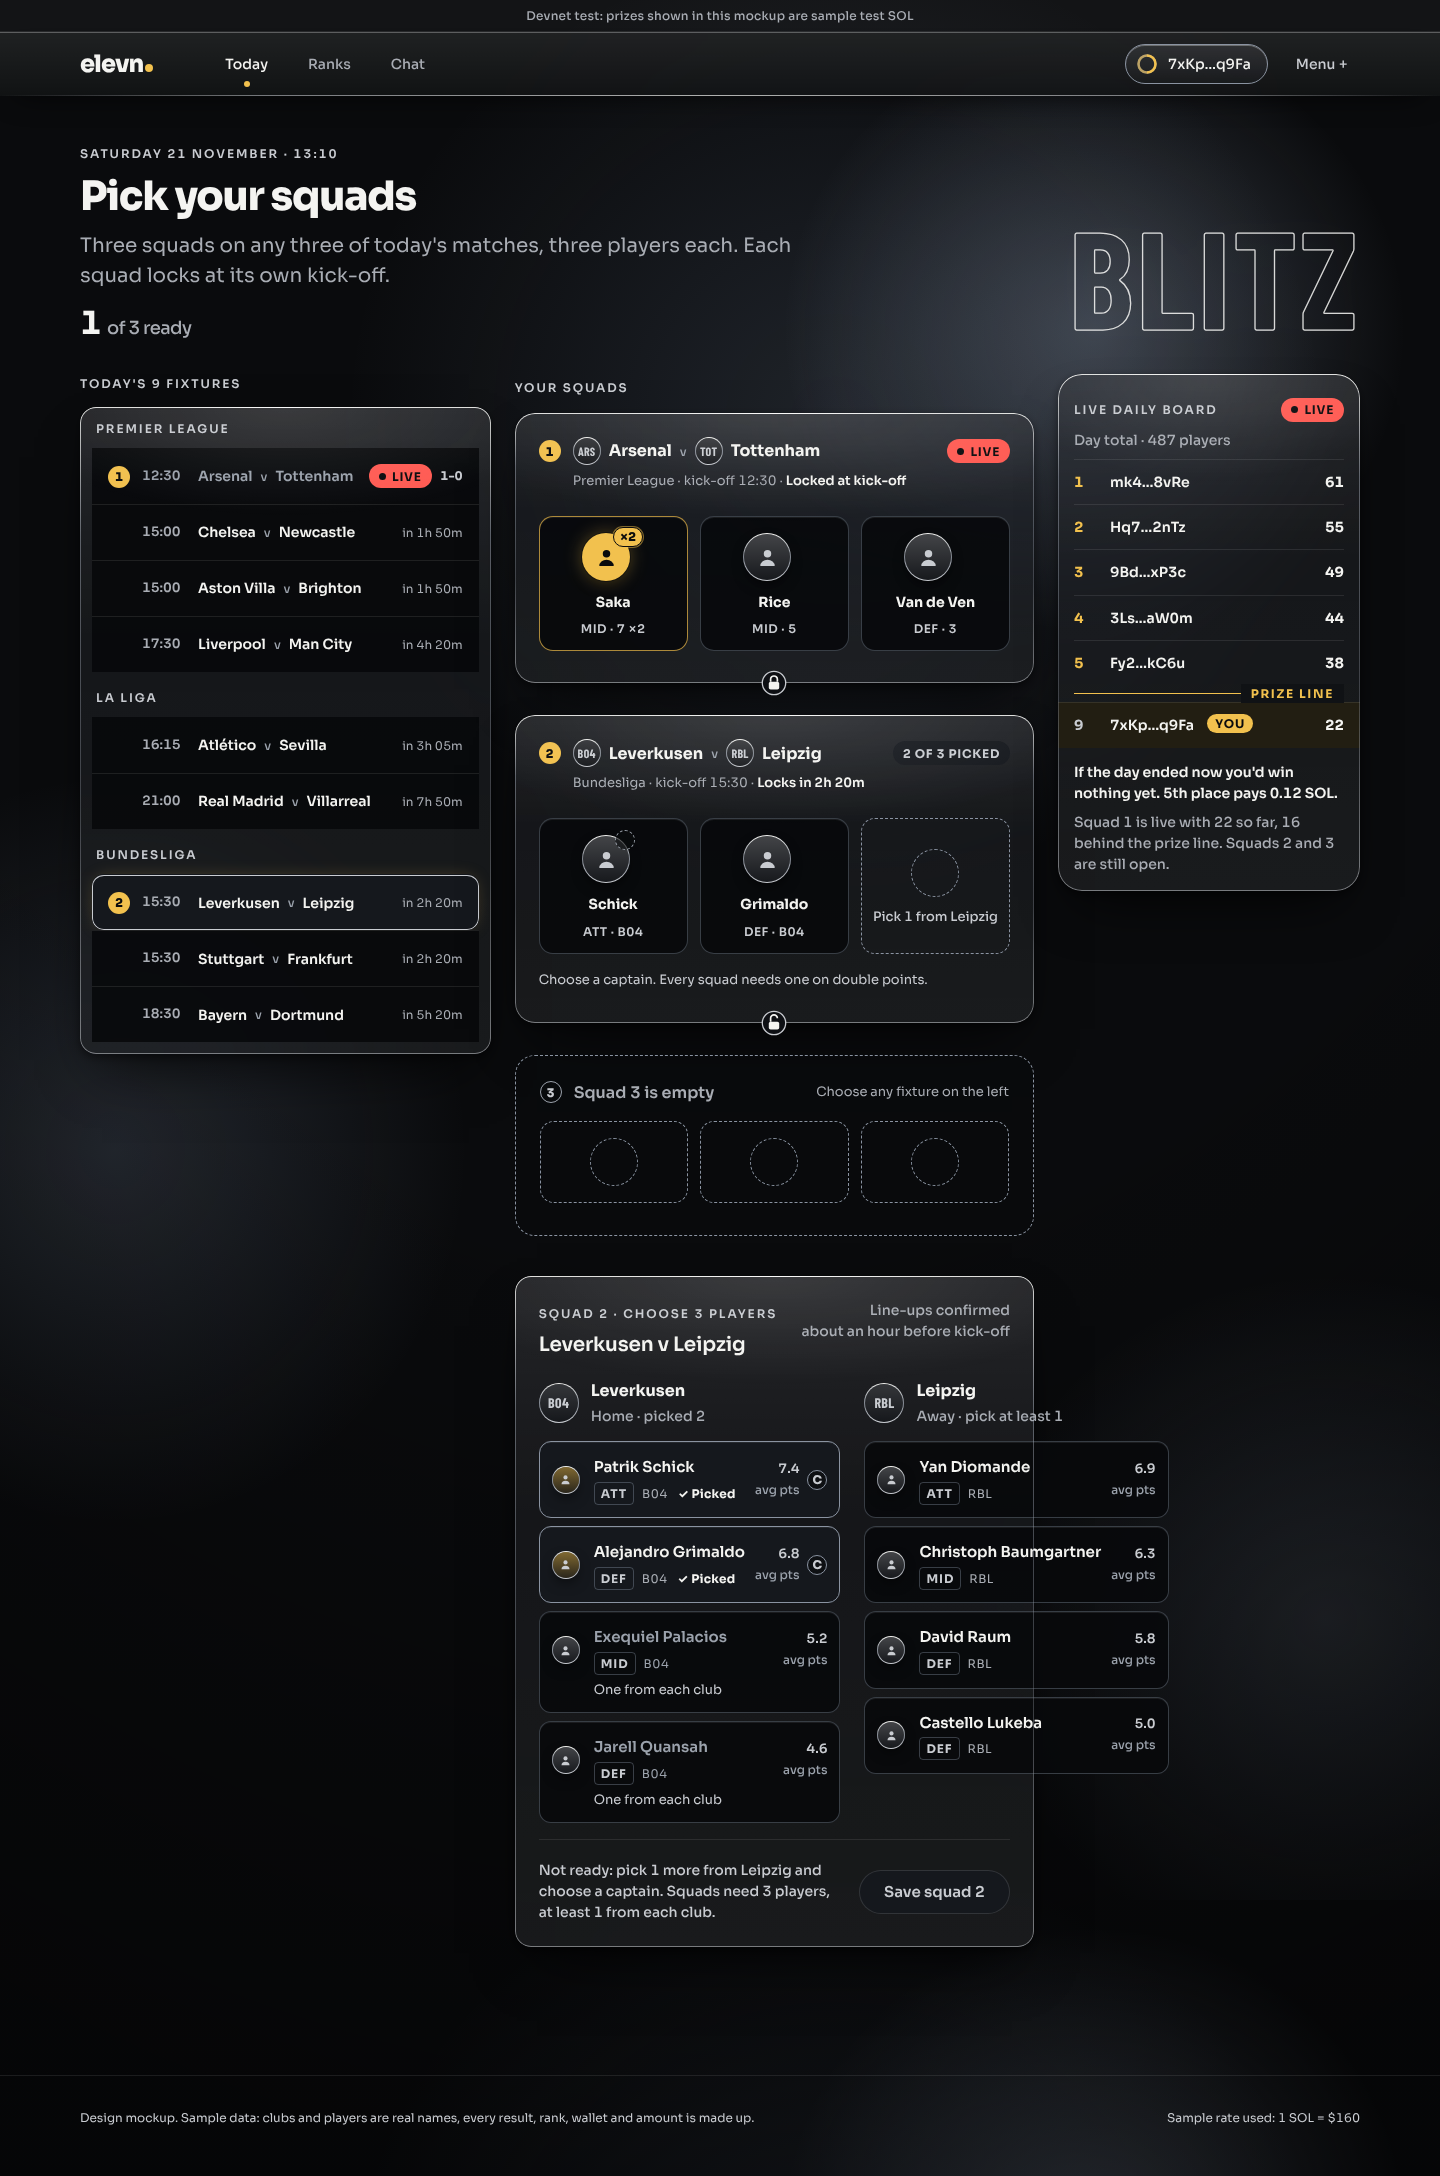
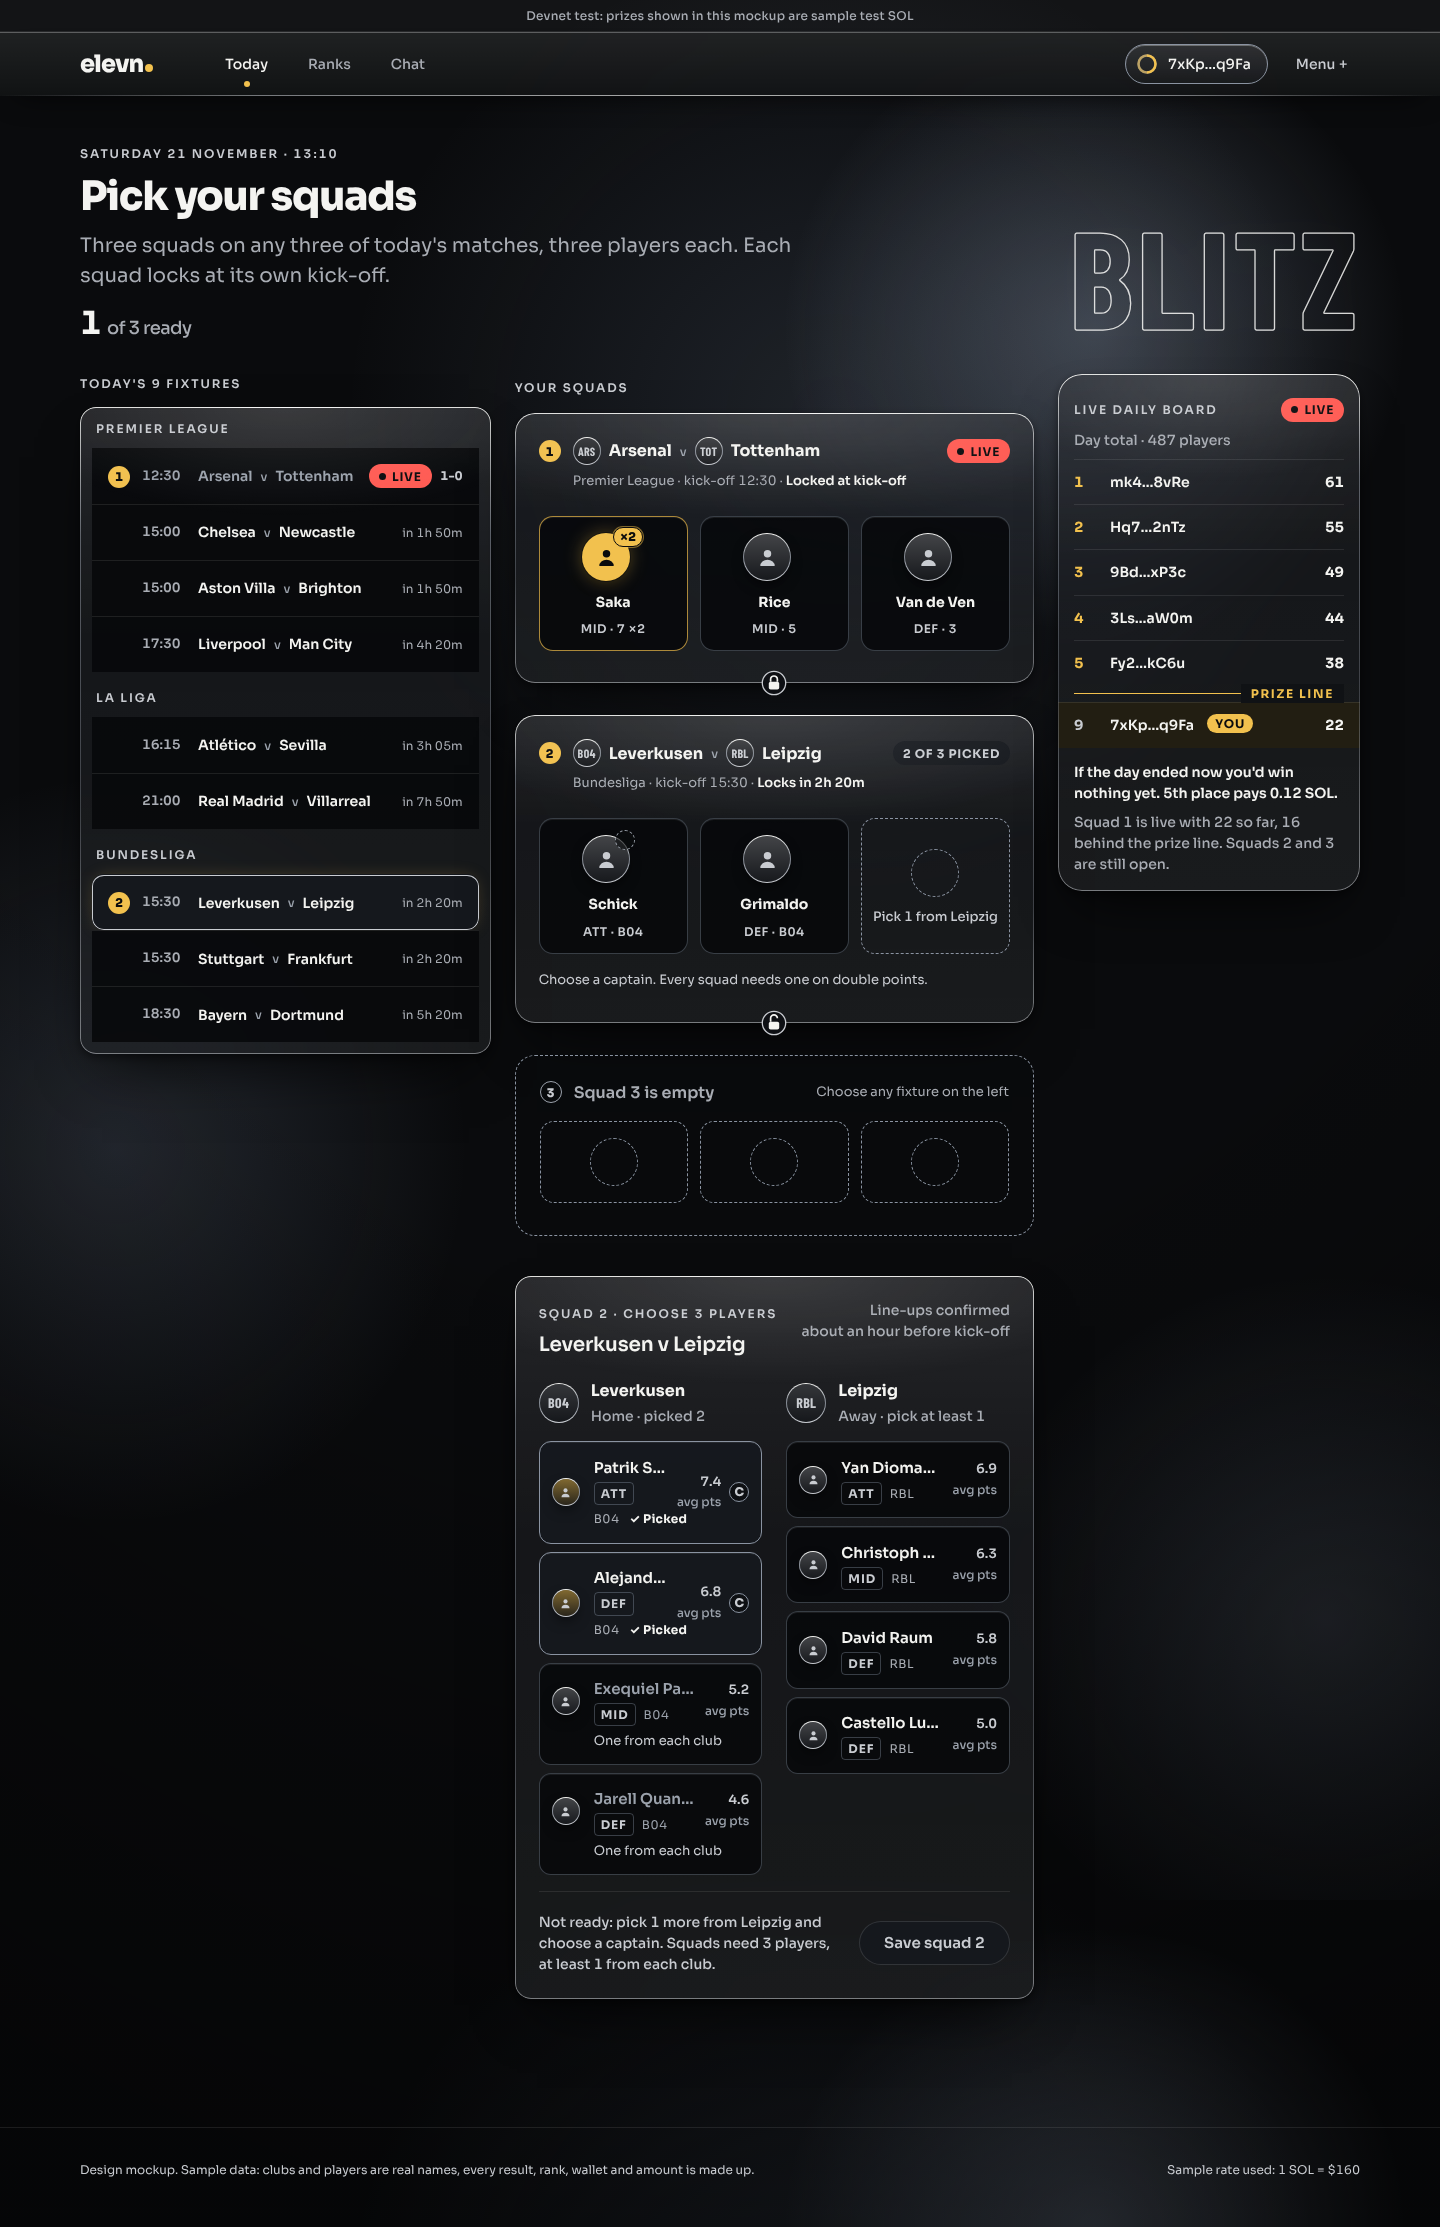
Mockups: Blitz builder columns stay inside their panel
Claude-Session: https://claude.ai/code/session_012GbKymxq8Mwy7J7Kp4CrmR

diff --git a/docs/design/mockups/mock.css b/docs/design/mockups/mock.css
@@ -500,3 +500,11 @@ h1.word { font-weight: 700; letter-spacing: .02em; line-height: .84; }
   .pk-bd .card { padding-inline: 16px; }
 }
 @media (max-width: 700px) { .sq-row { grid-template-columns: 16px minmax(0, 1fr); row-gap: 8px; } .sq-row .badge { grid-column: 2; justify-self: start; } }
+
+/* builder: both club columns stay inside the panel; long names are cut with an ellipsis */
+.picks-wrap { grid-template-columns: minmax(0, 1fr) minmax(0, 1fr); }
+.picks-wrap > div { min-width: 0; }
+.picks-wrap .tile { min-width: 0; }
+.picks-wrap .tile > div { min-width: 0; }
+.picks-wrap .tile .nm { display: inline-block; max-width: 100%; overflow: hidden; text-overflow: ellipsis; vertical-align: bottom; }
+@media (max-width: 1200px) { .pk-bd .picks-wrap { grid-template-columns: minmax(0, 1fr); } }
